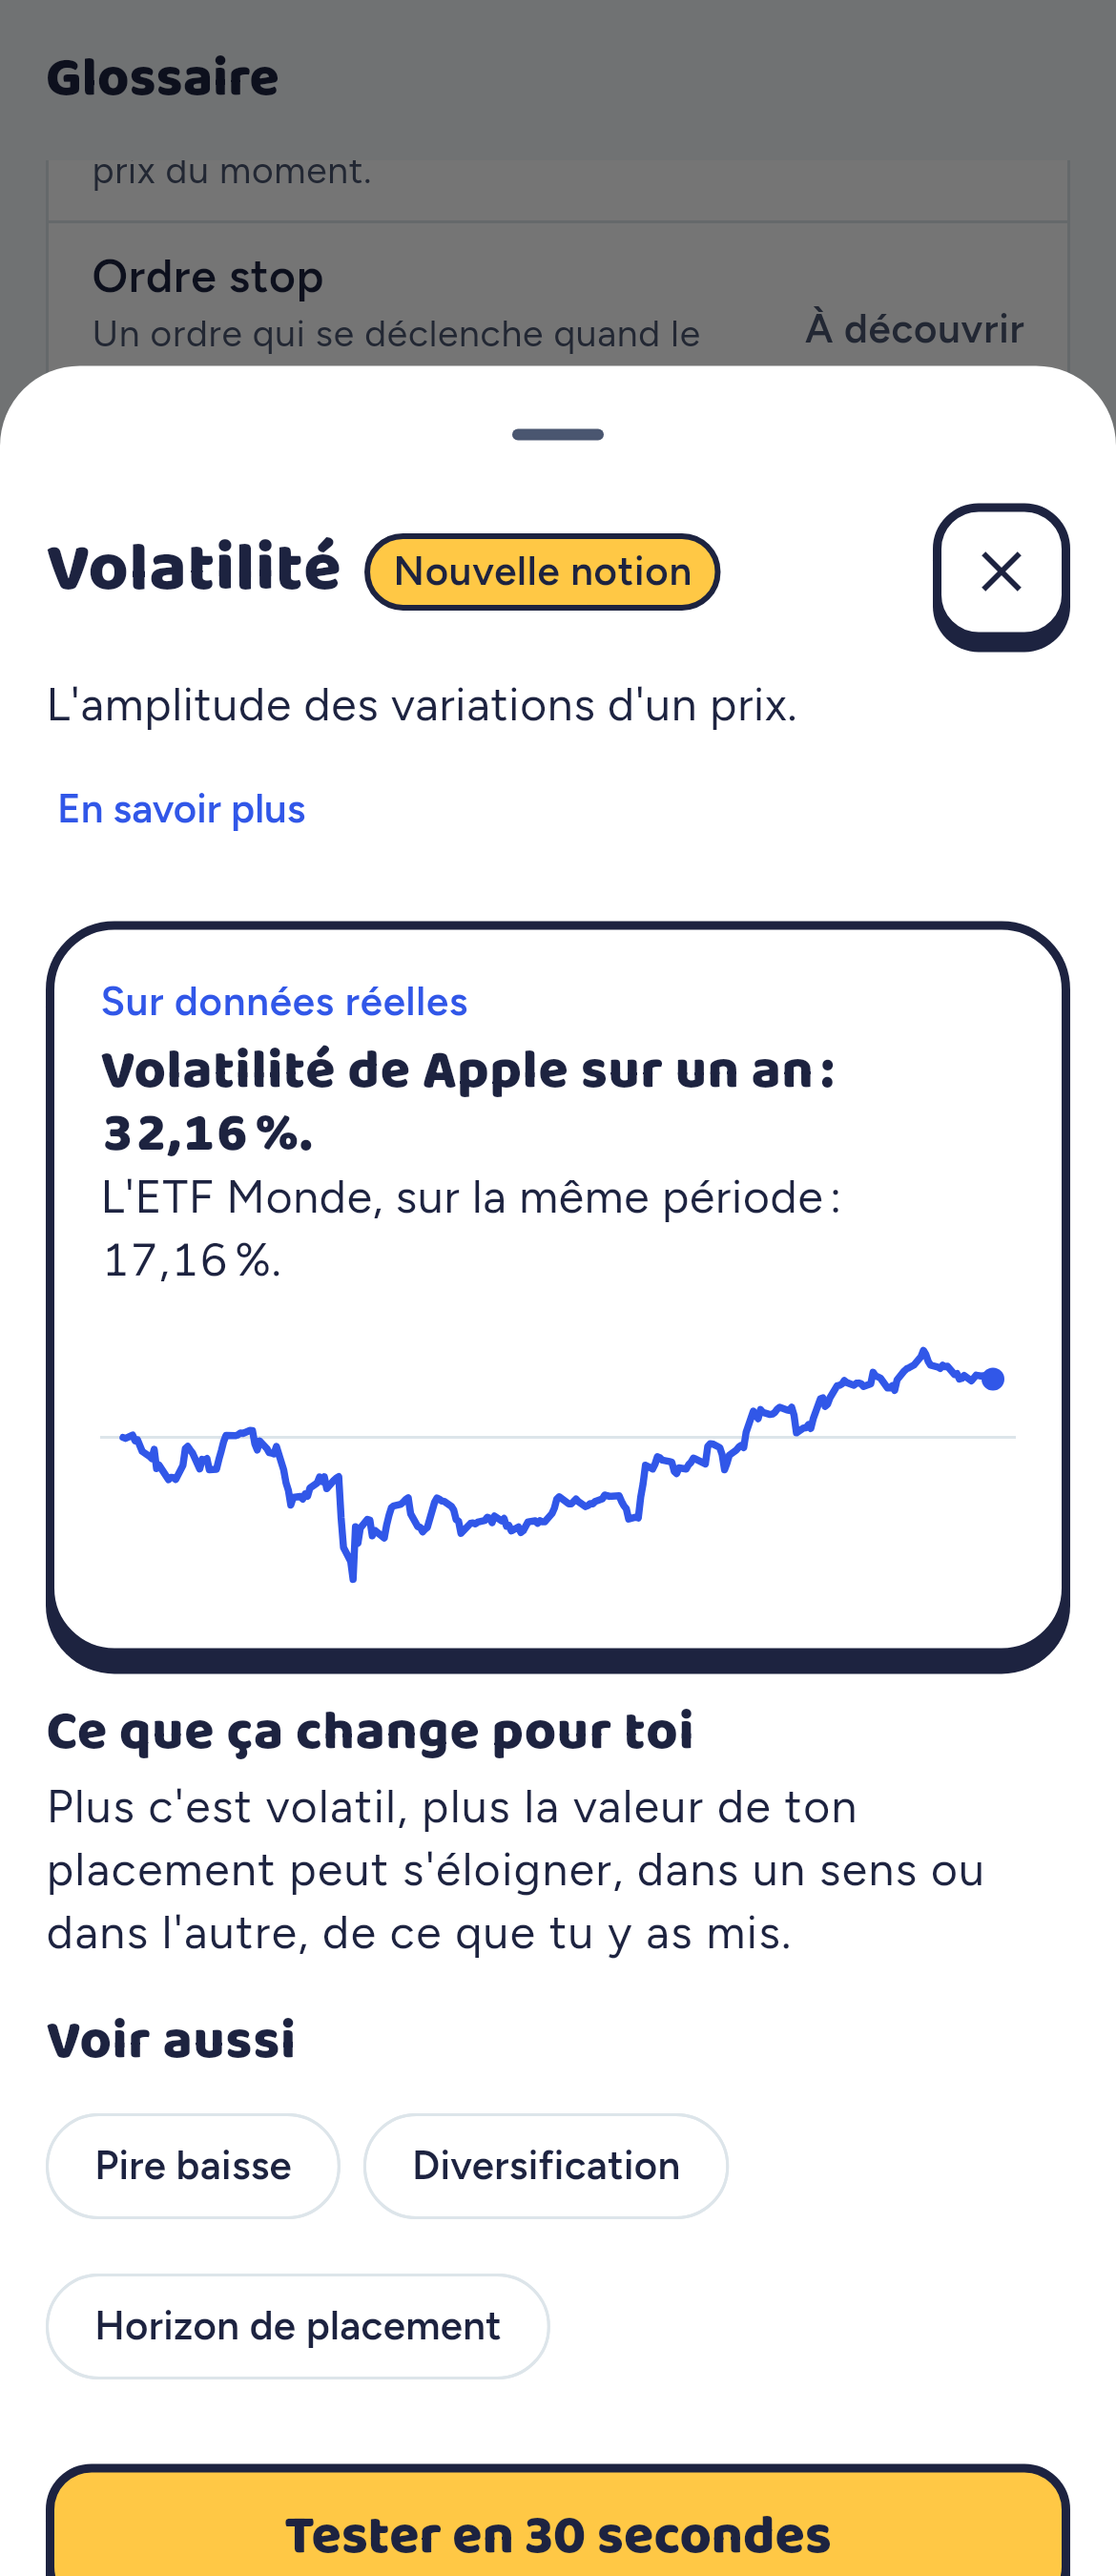
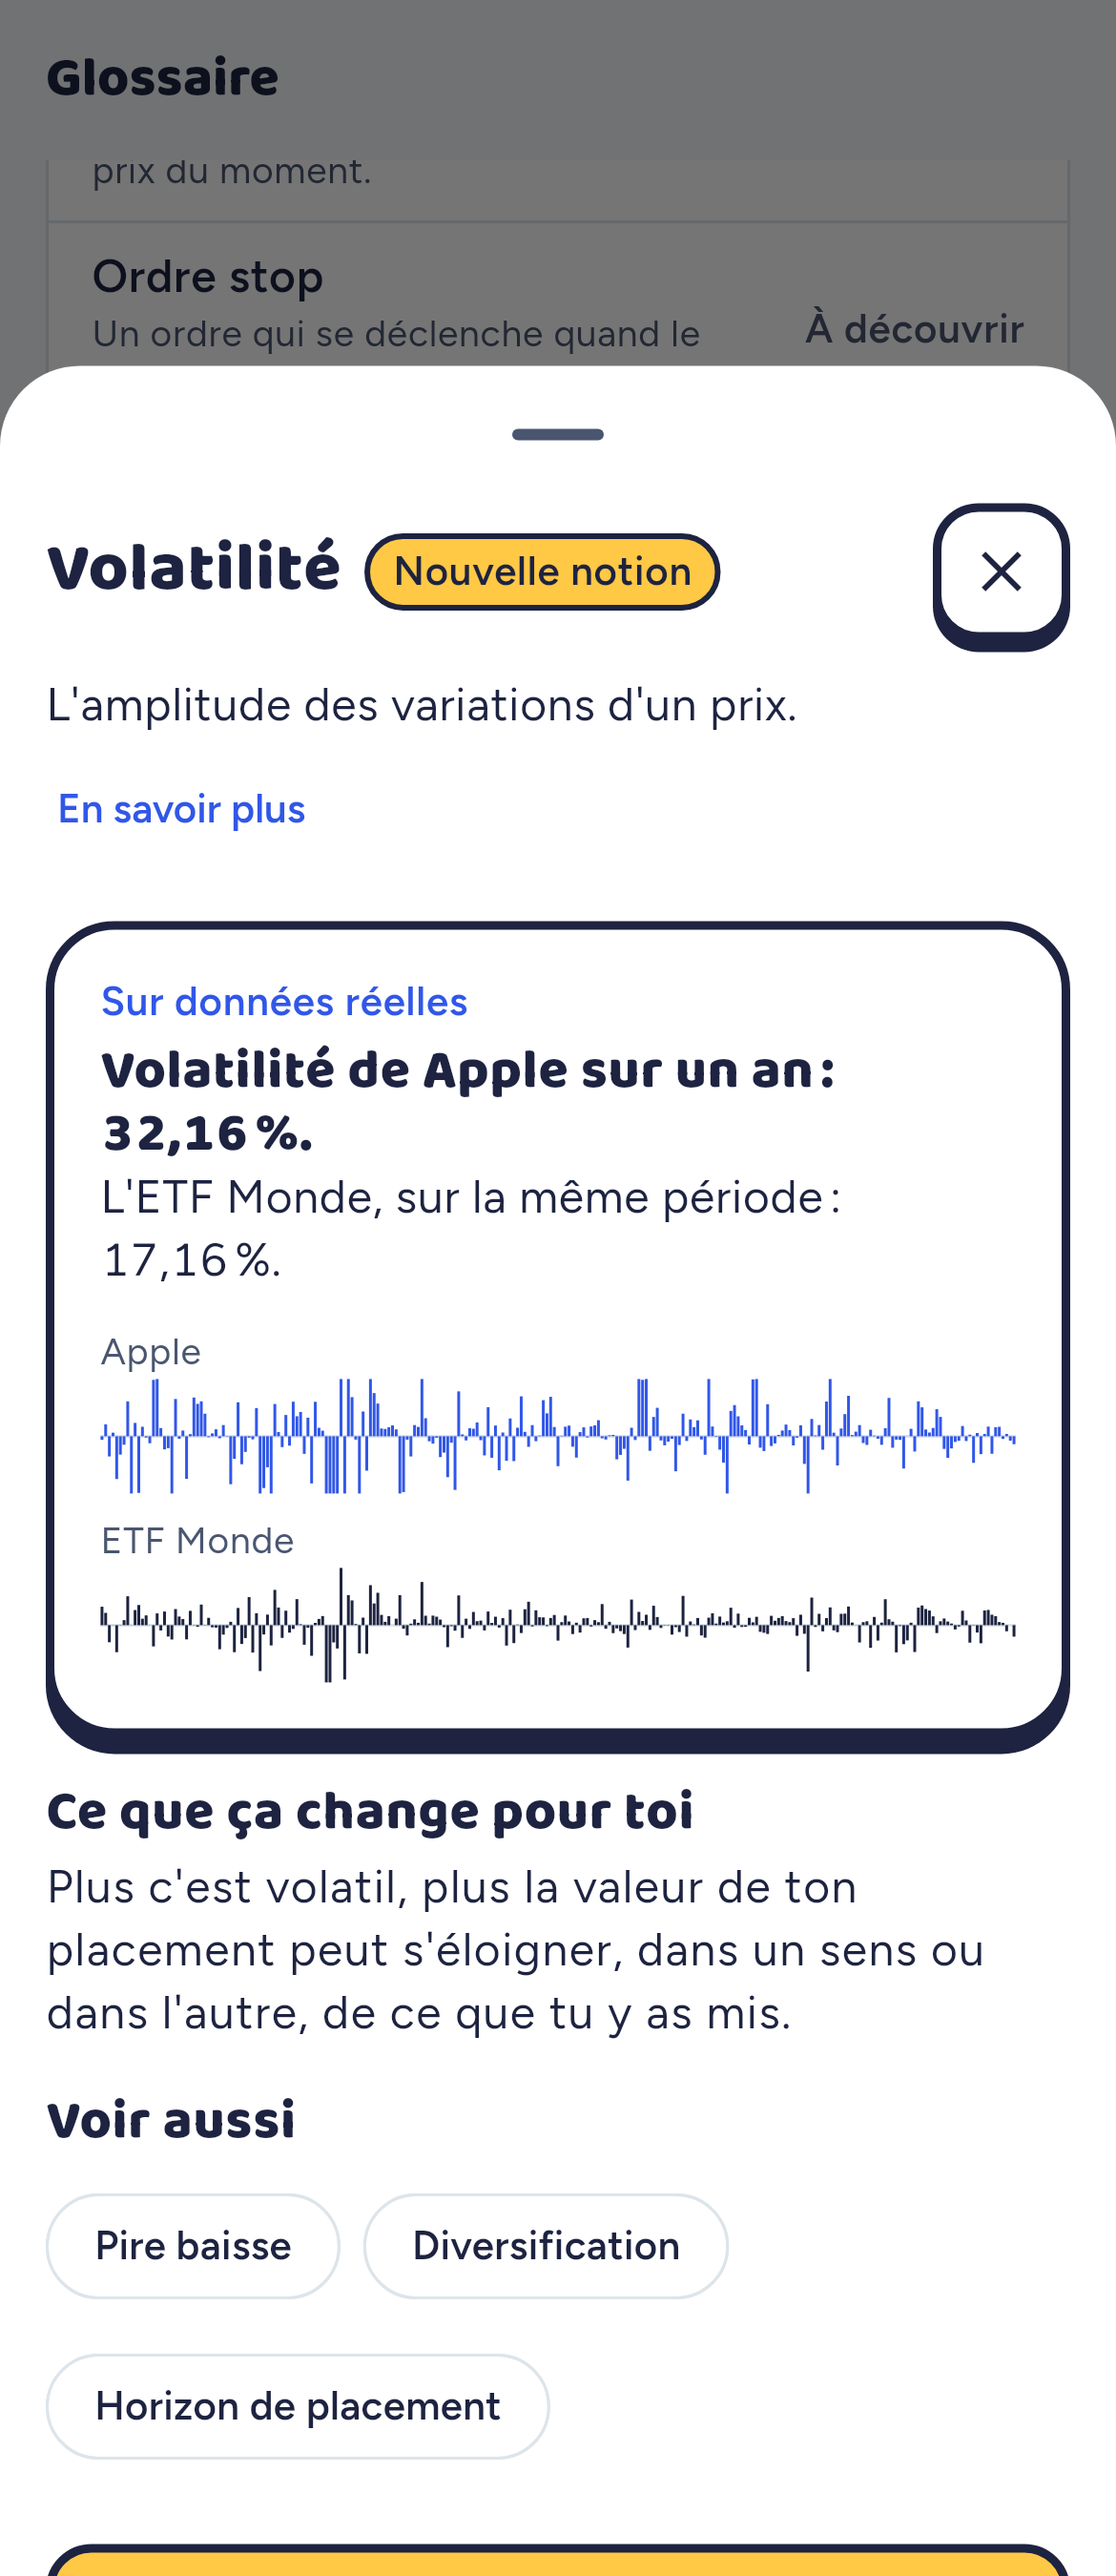
M9-28: The glossary's examples show their notion

Changed region(s): [[0.0308, 0.4978, 0.9846, 1.0]]

diff --git a/app/lib/presentation/features/glossary/term_sheet.dart b/app/lib/presentation/features/glossary/term_sheet.dart
@@ -1,4 +1,7 @@
+import 'dart:math' as math;
+
 import 'package:decimal/decimal.dart';
+import 'package:fl_chart/fl_chart.dart';
 import 'package:flutter/material.dart';
 import 'package:flutter_riverpod/flutter_riverpod.dart';
 
@@ -12,6 +15,8 @@ import '../../../core/widgets/async_states.dart';
 import '../../../core/widgets/chunky.dart';
 import '../../../core/failure.dart';
 import '../../../domain/learning/checkpoint.dart';
+import '../../../domain/analytics/drawdown.dart';
+import '../../../domain/analytics/volatility.dart';
 import '../../../domain/learning/glossary.dart';
 import '../../widgets/sign_color.dart';
 import '../../widgets/term_text.dart';
@@ -255,27 +260,35 @@ class _LiveExampleCard extends ConsumerWidget {
               ),
             if (value.closes.length > 1) ...[
               const SizedBox(height: AppSpace.x3),
-              RevealChart(
-                height: 96,
-                animate: false,
-                lines: [
-                  ChartLine([
-                    for (final (d, c) in value.closes)
-                      (d.millisecondsSinceEpoch.toDouble(), c.toDouble()),
-                  ], AppColors.primary),
-                ],
-                semanticsLabel: l10n.node_chart_semantics(
-                  l10n.node_chart_line(
-                    value.asset.name,
-                    formats.price(
-                      Price(value.closes.first.$2, value.asset.currency),
+              switch (kind) {
+                // How far each day moved, the asset beside the world ETF on
+                // one scale (M9-28): the jittery one shows at a glance.
+                LiveExample.volatility => _DailyMoves([
+                  (value.asset.name, dailyChanges(value.closes), lineColors[0]),
+                  // Named as the line above names it.
+                  if (value.world != null)
+                    (
+                      l10n.wallet_benchmark_world,
+                      dailyChanges(value.worldCloses),
+                      lineColors[1],
                     ),
-                    formats.price(
-                      Price(value.closes.last.$2, value.asset.currency),
+                ]),
+                _ => Semantics(
+                  label: l10n.node_chart_semantics(
+                    l10n.node_chart_line(
+                      value.asset.name,
+                      formats.price(
+                        Price(value.closes.first.$2, value.asset.currency),
+                      ),
+                      formats.price(
+                        Price(value.closes.last.$2, value.asset.currency),
+                      ),
                     ),
                   ),
+                  excludeSemantics: true,
+                  child: _PriceLine(value.closes, value.drawdown),
                 ),
-              ),
+              },
             ],
           ],
         ),
@@ -287,6 +300,132 @@ class _LiveExampleCard extends ConsumerWidget {
       },
     );
   }
+}
+
+/// An example's year of closes, small; the worst drop's peak and trough
+/// marked when there is one (M9-28), as the asset page marks them.
+class _PriceLine extends StatelessWidget {
+  const _PriceLine(this.closes, this.drawdown);
+  final List<(DateTime, Decimal)> closes;
+  final Drawdown? drawdown;
+
+  @override
+  Widget build(BuildContext context) {
+    final marks = {
+      for (final date in [drawdown?.peakDate, drawdown?.troughDate])
+        if (date != null) closes.indexWhere((c) => c.$1 == date),
+    }..remove(-1);
+    return SizedBox(
+      height: 96,
+      child: LineChart(
+        LineChartData(
+          gridData: const FlGridData(show: false),
+          titlesData: const FlTitlesData(show: false),
+          borderData: FlBorderData(show: false),
+          lineTouchData: const LineTouchData(enabled: false),
+          lineBarsData: [
+            LineChartBarData(
+              // Doubles from here on: pixels, not money.
+              spots: [
+                for (final (i, (_, close)) in closes.indexed)
+                  FlSpot(i.toDouble(), close.toDouble()),
+              ],
+              color: AppColors.primary,
+              barWidth: 2,
+              dotData: FlDotData(
+                checkToShowDot: (spot, _) => marks.contains(spot.x.toInt()),
+                getDotPainter: (_, _, _, _) => FlDotCirclePainter(
+                  radius: 4,
+                  color: AppColors.alert,
+                  strokeWidth: 0,
+                ),
+              ),
+            ),
+          ],
+        ),
+      ),
+    );
+  }
+}
+
+/// The volatility example (M9-28): each day's change as a thin bar from a
+/// middle line, one row per asset, all on the widest move's scale. The
+/// figures above say it in words: hidden from screen readers.
+class _DailyMoves extends StatelessWidget {
+  const _DailyMoves(this.rows);
+  final List<(String, List<(DateTime, Decimal)>, Color)> rows;
+
+  @override
+  Widget build(BuildContext context) {
+    // Doubles from here on: pixels, not money. One scale for both rows: an
+    // ordinary day's move (the 95th percentile), the rare bigger ones
+    // reaching the row's edge, so one crash day does not flatten the rest.
+    final sizes = [
+      for (final (_, changes, _) in rows)
+        for (final (_, change) in changes) change.abs().toDouble(),
+    ]..sort();
+    final widest = sizes.isEmpty
+        ? 0.0
+        : sizes[((sizes.length - 1) * 0.95).round()];
+    return ExcludeSemantics(
+      child: Column(
+        crossAxisAlignment: CrossAxisAlignment.stretch,
+        children: [
+          for (final (i, (name, changes, color)) in rows.indexed) ...[
+            if (i > 0) const SizedBox(height: AppSpace.x2),
+            Text(name, style: AppText.caption.copyWith(color: AppColors.muted)),
+            SizedBox(
+              height: 40,
+              child: CustomPaint(
+                painter: _MovesPainter(
+                  [for (final (_, change) in changes) change.toDouble()],
+                  widest,
+                  color,
+                ),
+              ),
+            ),
+          ],
+        ],
+      ),
+    );
+  }
+}
+
+class _MovesPainter extends CustomPainter {
+  _MovesPainter(this.moves, this.widest, this.color);
+  final List<double> moves;
+  final double widest;
+  final Color color;
+
+  @override
+  void paint(Canvas canvas, Size size) {
+    final middle = size.height / 2;
+    canvas.drawLine(
+      Offset(0, middle),
+      Offset(size.width, middle),
+      Paint()
+        ..color = AppColors.line
+        ..strokeWidth = 1,
+    );
+    if (moves.isEmpty || widest == 0) return;
+    final step = size.width / moves.length;
+    final bar = Paint()
+      ..color = color
+      ..strokeWidth = math.max(1, step * 0.6);
+    for (final (i, move) in moves.indexed) {
+      final x = (i + 0.5) * step;
+      final reach = (move / widest).clamp(-1.0, 1.0);
+      canvas.drawLine(
+        Offset(x, middle),
+        Offset(x, middle - reach * middle),
+        bar,
+      );
+    }
+  }
+
+  @override
+  bool shouldRepaint(_MovesPainter old) =>
+      old.widest != widest || old.color != color || old.moves != moves;
 }
 
 /// « Nouvelle » or « Nouvelle notion »: a small pill in the new notions'

diff --git a/app/lib/application/learning/glossary.dart b/app/lib/application/learning/glossary.dart
@@ -6,6 +6,7 @@ import '../../core/money/money.dart';
 import '../../data/repositories/glossary_repository.dart';
 import '../../domain/learning/checkpoint.dart';
 import '../../domain/learning/content.dart';
+import '../../domain/analytics/drawdown.dart';
 import '../../domain/learning/glossary.dart';
 import '../../domain/market/asset.dart';
 import '../explorer/explorer.dart' show searchKey;
@@ -158,6 +159,8 @@ final class LiveExampleView {
     required this.closes,
     this.world,
     this.worldFigure,
+    this.worldCloses = const [],
+    this.drawdown,
   });
 
   final LiveExample kind;
@@ -172,6 +175,13 @@ final class LiveExampleView {
   /// (same currency, nothing to compare).
   final Asset? world;
   final Decimal? worldFigure;
+
+  /// The world ETF's closes, for the volatility example's daily moves side
+  /// by side (M9-28); empty otherwise.
+  final List<(DateTime, Decimal)> worldCloses;
+
+  /// The worst drop's peak and trough, for the drawdown example's marks.
+  final Drawdown? drawdown;
 }
 
 @riverpod
@@ -216,13 +226,18 @@ Future<LiveExampleView> liveExample(
   }
   final compare =
       kind != LiveExample.currency && world != null && world.id != asset.id;
+  final worldCloses = compare
+      ? await closesOf(world)
+      : const <(DateTime, Decimal)>[];
   return LiveExampleView(
     kind: kind,
     asset: asset,
     figure: liveFigure(kind, closes, rates: rates),
     closes: closes,
     world: compare ? world : null,
-    worldFigure: compare ? liveFigure(kind, await closesOf(world)) : null,
+    worldFigure: compare ? liveFigure(kind, worldCloses) : null,
+    worldCloses: kind == LiveExample.volatility ? worldCloses : const [],
+    drawdown: kind == LiveExample.drawdown ? maxDrawdown(closes) : null,
   );
 }
 

diff --git a/app/screenshots/glossary_test.dart b/app/screenshots/glossary_test.dart
@@ -6,6 +6,7 @@ import 'package:finance_companion/application/learning/island_path.dart';
 import 'package:finance_companion/core/money/money.dart';
 import 'package:finance_companion/data/content/pack_codec.dart';
 import 'package:finance_companion/data/repositories/glossary_repository.dart';
+import 'package:finance_companion/domain/analytics/drawdown.dart';
 import 'package:finance_companion/domain/learning/glossary.dart';
 import 'package:finance_companion/domain/market/asset.dart';
 import 'package:finance_companion/domain/market/market_calendar.dart';
@@ -57,6 +58,8 @@ void main() {
         closes: apple,
         world: _asset('world', 'iShares MSCI ACWI ETF', AssetType.etf),
         worldFigure: liveFigure(args.$1, world),
+        worldCloses: args.$1 == LiveExample.volatility ? world : const [],
+        drawdown: args.$1 == LiveExample.drawdown ? maxDrawdown(apple) : null,
       ),
     ),
   ];
@@ -85,6 +88,28 @@ void main() {
             .first,
       );
       await tester.tap(find.text('Volatilité'));
+      await tester.pumpAndSettle();
+    },
+  );
+
+  // The worst drop's example: its peak and trough marked (M9-28).
+  screenshot(
+    'm9-28-term-sheet-drawdown',
+    const GlossaryScreen(),
+    size: const Size(390, 900),
+    overrides: overrides,
+    act: (tester) async {
+      await tester.scrollUntilVisible(
+        find.text('Pire baisse'),
+        200,
+        scrollable: find
+            .descendant(
+              of: find.byType(ListView),
+              matching: find.byType(Scrollable),
+            )
+            .first,
+      );
+      await tester.tap(find.text('Pire baisse'));
       await tester.pumpAndSettle();
     },
   );

diff --git a/app/lib/domain/analytics/volatility.dart b/app/lib/domain/analytics/volatility.dart
@@ -3,6 +3,7 @@ import 'dart:math' as math;
 import 'package:decimal/decimal.dart';
 
 import '../../core/money/money.dart';
+import 'returns.dart';
 
 /// Below this many daily returns the estimate means little: no volatility
 /// ("pas assez de données").
@@ -35,3 +36,13 @@ Decimal? annualisedVolatility(List<Decimal> closes) {
   final annualised = math.sqrt(variance) * math.sqrt(tradingDaysPerYear);
   return Decimal.parse(annualised.toStringAsFixed(ratioScale));
 }
+
+/// Each day's change, `close / previous close − 1`, dated by the later day:
+/// how much the price moved from one session to the next (M9-28, the
+/// volatility example's bars). Fewer than two closes: none. A day after a
+/// close of zero or less has no change and is left out.
+List<(DateTime, Decimal)> dailyChanges(List<(DateTime, Decimal)> closes) => [
+  for (var i = 1; i < closes.length; i++)
+    if (closes[i - 1].$2 > Decimal.zero)
+      (closes[i].$1, simpleReturn(closes[i - 1].$2, closes[i].$2)!),
+];

diff --git a/app/test/domain/analytics/analytics_test.dart b/app/test/domain/analytics/analytics_test.dart
@@ -92,6 +92,31 @@ void main() {
     });
   });
 
+  group('dailyChanges', () {
+    test('each day against the one before, dated by the later day', () {
+      expect(
+        dailyChanges([
+          (day(0), d('100')),
+          (day(1), d('110')),
+          (day(2), d('99')),
+        ]),
+        [(day(1), d('0.1')), (day(2), d('-0.1'))],
+      );
+    });
+
+    test('fewer than two closes: no change to draw', () {
+      expect(dailyChanges(const []), isEmpty);
+      expect(dailyChanges([(day(0), d('100'))]), isEmpty);
+    });
+
+    test('a day after a close of zero or less is left out', () {
+      expect(
+        dailyChanges([(day(0), d('0')), (day(1), d('5')), (day(2), d('6'))]),
+        [(day(2), d('0.2'))],
+      );
+    });
+  });
+
   group('annualisedVolatility', () {
     test('null under 20 returns (21 closes)', () {
       expect(annualisedVolatility(const []), isNull);

diff --git a/app/test/application/learning/glossary_test.dart b/app/test/application/learning/glossary_test.dart
@@ -183,7 +183,21 @@ void main() {
         liveExampleProvider(LiveExample.drawdown, 'apple').future,
       );
       expect(drop.figure, d('-0.25'));
+      // Where it started and where it bottomed out, for the chart's marks.
+      expect(drop.drawdown?.peakDate, isNotNull);
+      expect(drop.drawdown?.troughDate, isNotNull);
     });
+
+    test(
+      'volatility: the world ETF\'s closes too, for its daily moves',
+      () async {
+        final v = await c.read(
+          liveExampleProvider(LiveExample.volatility, 'apple').future,
+        );
+        expect(v.worldCloses, hasLength(2)); // The fixture's two world closes.
+        expect(v.world?.id, 'world');
+      },
+    );
 
     test('opened elsewhere: the world ETF alone', () async {
       final v = await c.read(

diff --git a/docs/BRIEF.md b/docs/BRIEF.md
@@ -321,6 +321,10 @@ Rules:
   chunky ✕; the one-line definition (`short`) first, the 2–3 paragraphs (`body`) behind « En savoir plus »,
   so the live example and « Tester en 30 secondes » stay within a short scroll; the live example in a chunky
   card, « Sur données réelles » over a Baloo headline; related terms as pills.
+- Live examples show their notion (decided 2026-10-24 by the user, M9-28): volatility draws each day's change
+  (`dailyChanges`) as thin bars, the asset above the ETF Monde on one scale (an ordinary day's move, the rarer
+  bigger ones reaching the row's edge); the worst drop marks its peak and trough on the year's line. Performance
+  and currency keep their line.
 - V1 terms (≈ 26): action, etf, indice, diversification, volatilite, pire-baisse, rendement, performance,
   plus-value, frais, risque-de-change, taux-de-change, inflation, interets-composes, dca, livret-a,
   matelas-de-securite, liquidites, ordre-au-marche, ordre-limite, ordre-stop, cours-de-cloture, allocation,
@@ -622,6 +626,8 @@ end, the money put in dashed, the x-axis dated (`dateAxis`, §10.1). Then « Ave
 flat card, each name on one line with its round value and signed change stacked beside it; then the insight in
 a chunky « Ton compagnon » card with the glossary's DCA as a chip; then « Enregistrer » as a chunky button.
 « Tes simulations » is a titled flat card. The lump sum and the Livret A stay, though the artboard has none.
+No « Autre actif » button (decided 2026-10-24 by the user): the asset field opens the form, one swipe above
+the result.
 
 ### 4.11 Livret A
 
